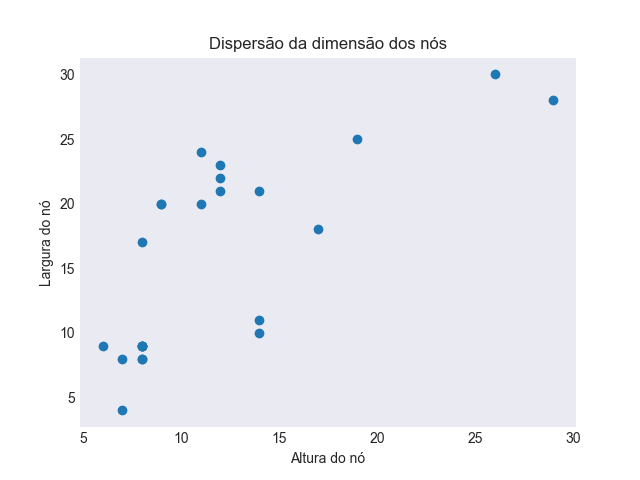
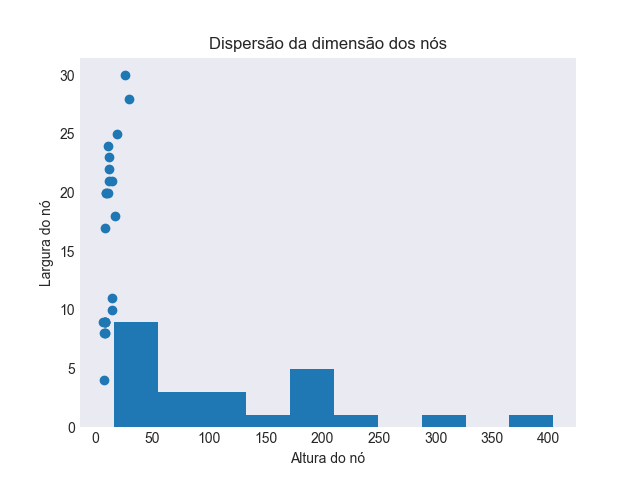
tentativa integração com thread (cheio de bugs)

diff --git a/interface.py b/interface.py
@@ -29,16 +29,14 @@ folder = ''
 a = b = c = 0                           # Variaveis que receberão os dados da identificação
 total = a+b+c                           # Função a trabalhar.
 
-scatter = ''                            # path do scatter
-hist = ''                               # path do hist
-
-def thread_identif():
-    return teste_integracao_interface.testeIntegracao()
+scatter = 'scatter.png'                            # path do scatter
+hist = 'hist.png'                               # path do hist
+imagens={'-IMAGE-':scatter,'-IMAGE2-':hist}
 
 """-------------------- Classes ------------------- """
 
 class Identificacao(Thread):
-    def __init__(self, target,name='IdentThread'):
+    def __init__(self, target, value, intervalo, name='IdentThread'):
         super().__init__()
         self.name = name
         self._target = target
@@ -47,13 +45,25 @@ class Identificacao(Thread):
         self.flag = True
         self.nos = 0
         self.classe = ''
+        self.intervalo = intervalo
+        self.value = value
         print(self.name, 'começou')
 
     def run(self):
         while self.flag:
-            self.nos, self.classe = self._target
-
+            self.nos, self.classe = self._target()
+            self.exibe()
+            time.sleep(self.intervalo)
         self._stoped = True
+
+    def exibe(self):
+        for val in self.value:
+            try:
+                filename = os.path.join(folder, imagens[val])
+                self.window[val].update(filename=filename)
+                self.window.refresh()
+            except:
+                pass
 
     def stop(self):
         self.flag = False
@@ -62,7 +72,12 @@ class Identificacao(Thread):
         return self.nos, self.classe
 
     def join(self):
+        self.flag = False
         pass
+
+def thread_identif():
+    return teste_integracao_interface.testeIntegracao()
+
 
 class Cronometro(Thread):
     def __init__(self, target, window, value,name='CronoThread'):
@@ -81,11 +96,13 @@ class Cronometro(Thread):
         startTime = time.time()
         while self.flag:
             self.time = time.time() - startTime
-            # print(self.time)
-            self.window[self.value].update('Tempo de execução: ' + str(round(self.time, 2))+' seg')
-            self._target(self.window)
+            self.exibe()
             time.sleep(0.01)
         self._stoped = True
+
+    def exibe(self):
+        self.window[self.value].update('Tempo de execução: ' + str(round(self.time, 2)) + ' seg')
+        self._target(self.window)
 
     def stop(self):
         self.flag = False
@@ -94,6 +111,7 @@ class Cronometro(Thread):
         return self.time
 
     def join(self):
+        self.flag = False
         pass
 
 """ ------------------- Funções -------------------- """
@@ -180,7 +198,7 @@ def main_window():
     #           [col7]]
 
     # ----- window -----
-    main_window = sg.Window(title="Classificador de Madeira", layout=layout, grab_anywhere=True) # margins=(200, 100), resizable=True
+    main_window = sg.Window(title="Classificador de Madeira",finalize=True, layout=layout, grab_anywhere=True) # margins=(200, 100), resizable=True
 
     # ----- event loop -----
     while True:
@@ -195,15 +213,15 @@ def main_window():
             main_window['Iniciar'].update(disabled=True)
             main_window['Parar'].update(disabled=False)
             crono = Cronometro(target=thread_timer, window=main_window, value='-TIME-')
-            ident = Identificacao(target=thread_identif)
+            ident = Identificacao(target=thread_identif,value=['-IMAGE-','-IMAGE2'],intervalo=1)
             ident.start()
             crono.start()
         elif event == "Parar":                                       # Gatilho para parar a identificação.
             main_window['Iniciar'].update(disabled=False)
             main_window['Parar'].update(disabled=True)
             main_window.write_event_value()
-            ident.stop()
-            crono.stop()
+            ident.join()
+            crono.join()
 
 
         #

diff --git a/classificacao_script.py b/classificacao_script.py
@@ -53,7 +53,7 @@ def classifica(fframe,color):
 
     for rows in stats:
         color = cv.rectangle(color, (rows[0], rows[1]), (rows[0] + rows[2], rows[1] + rows[3]), (255, 0, 0), 2)         # Precisa Salvar imagem em .png
-        print(type(color))
+        # print(type(color))
 
 
     """Retorno Antigo"""
